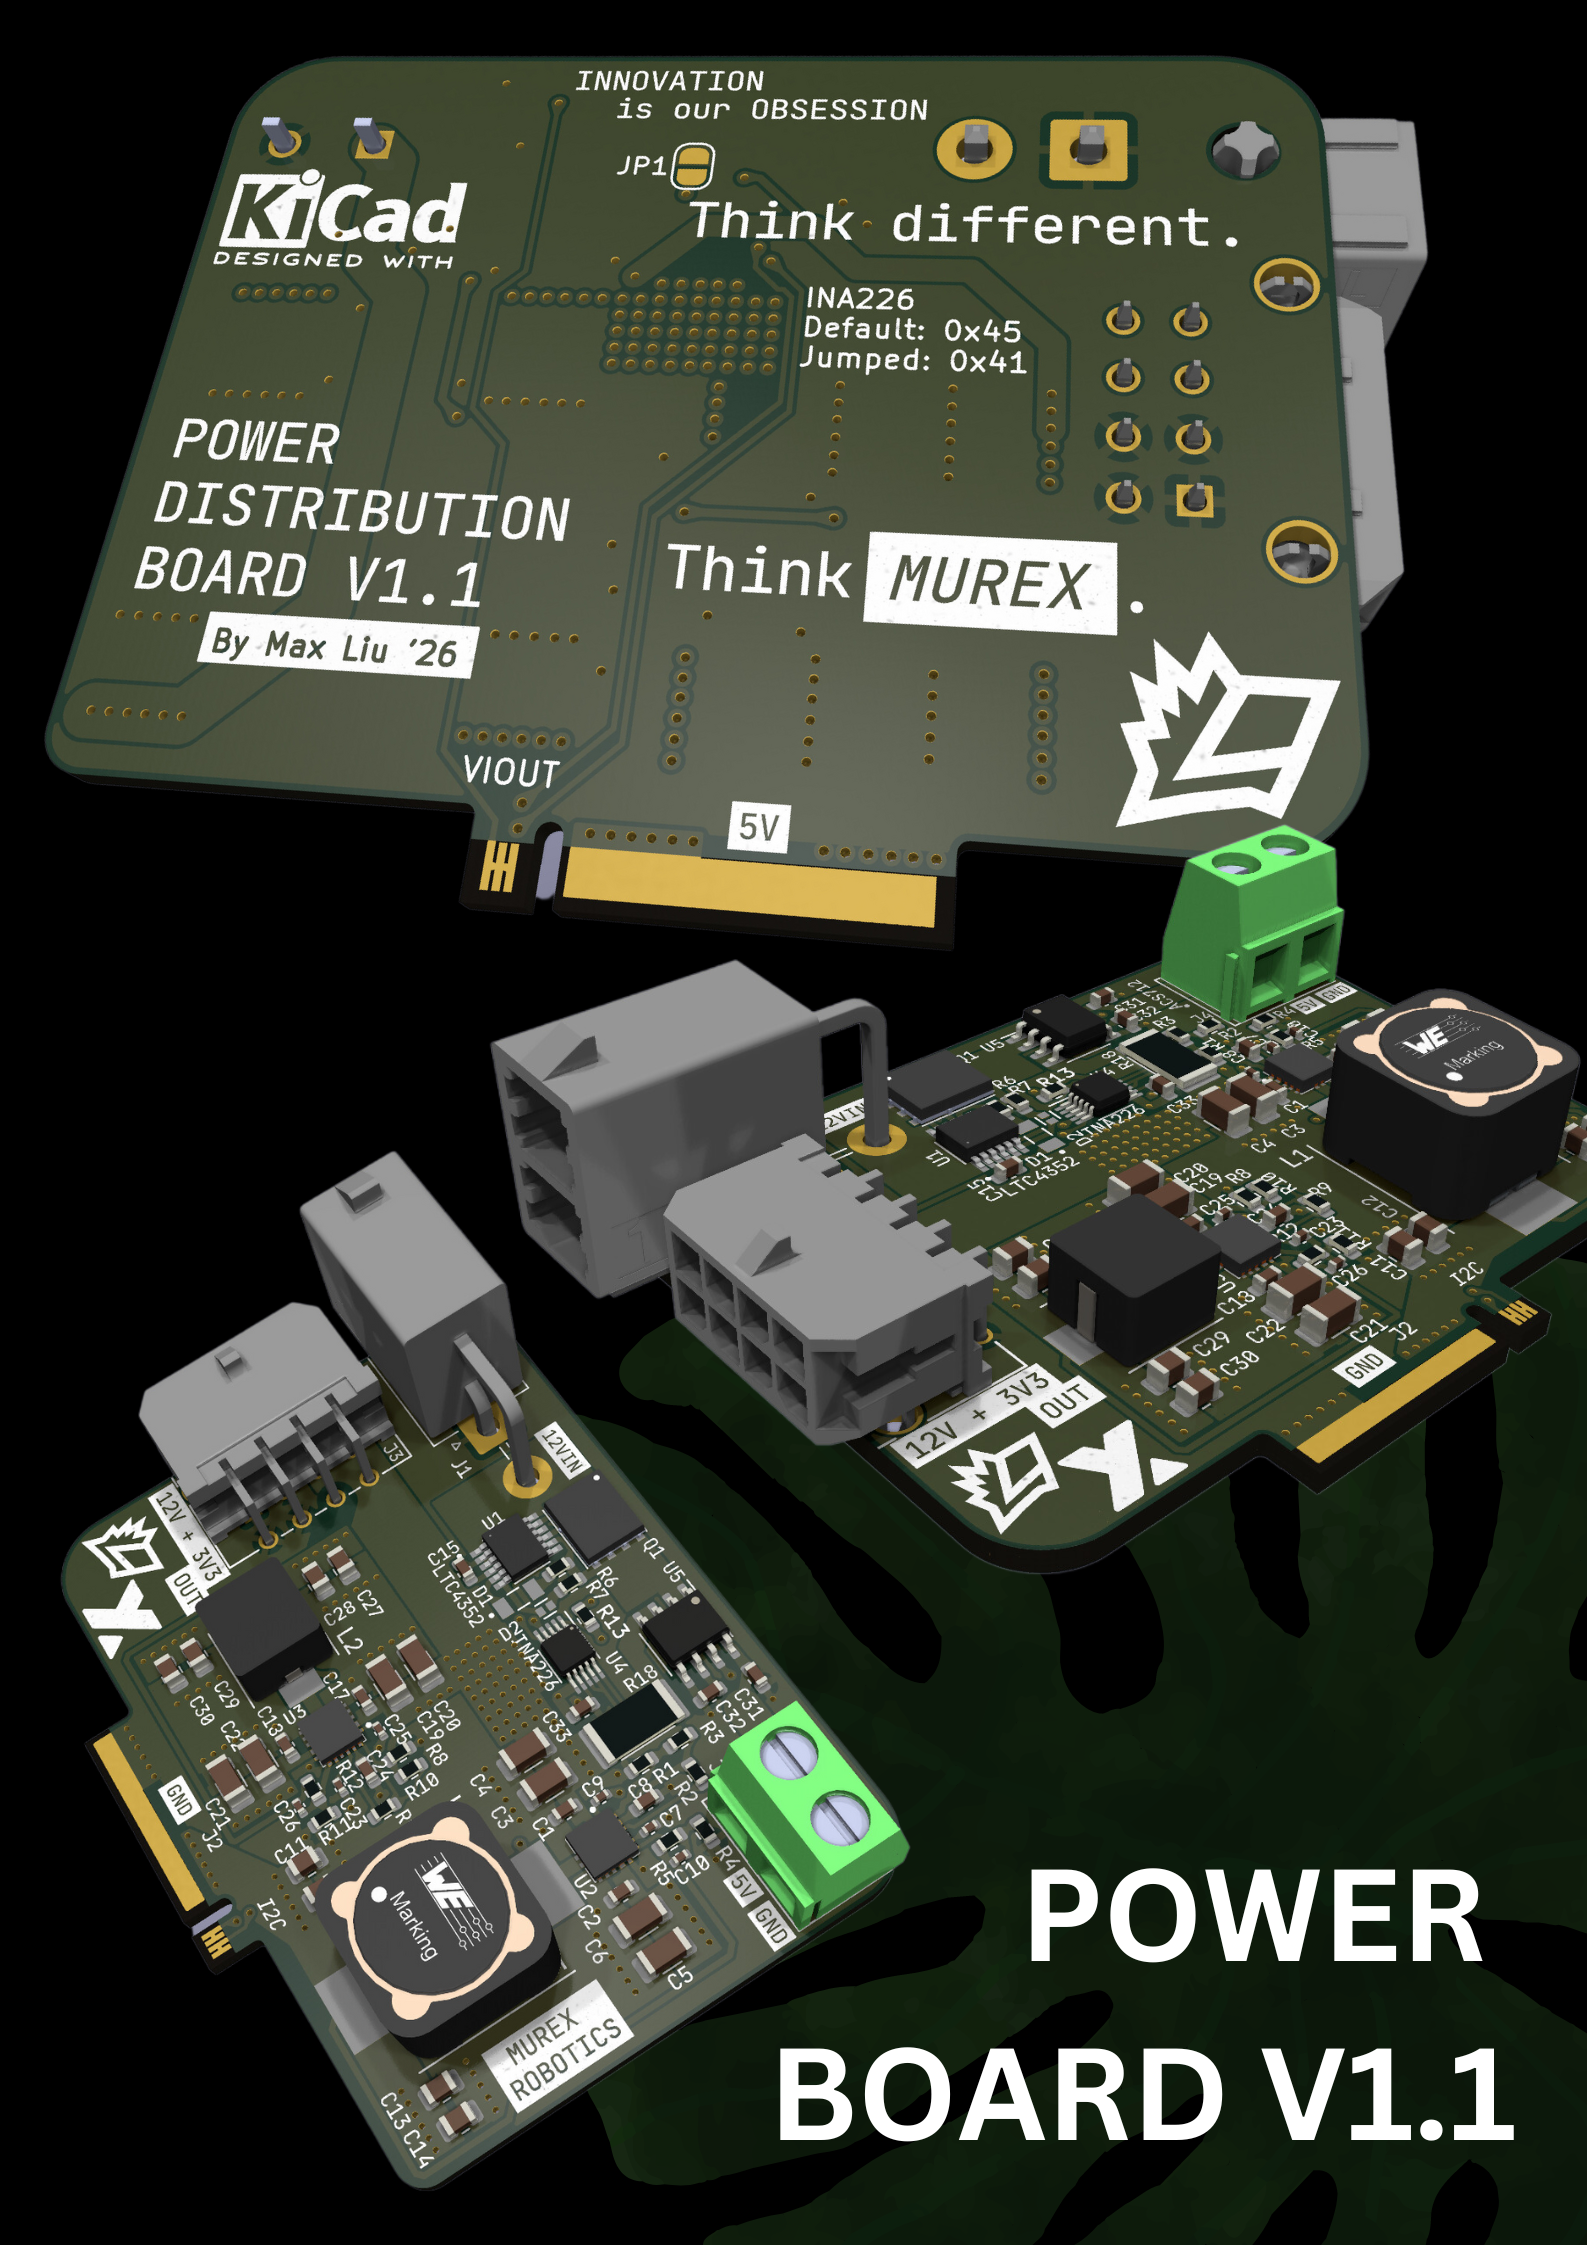
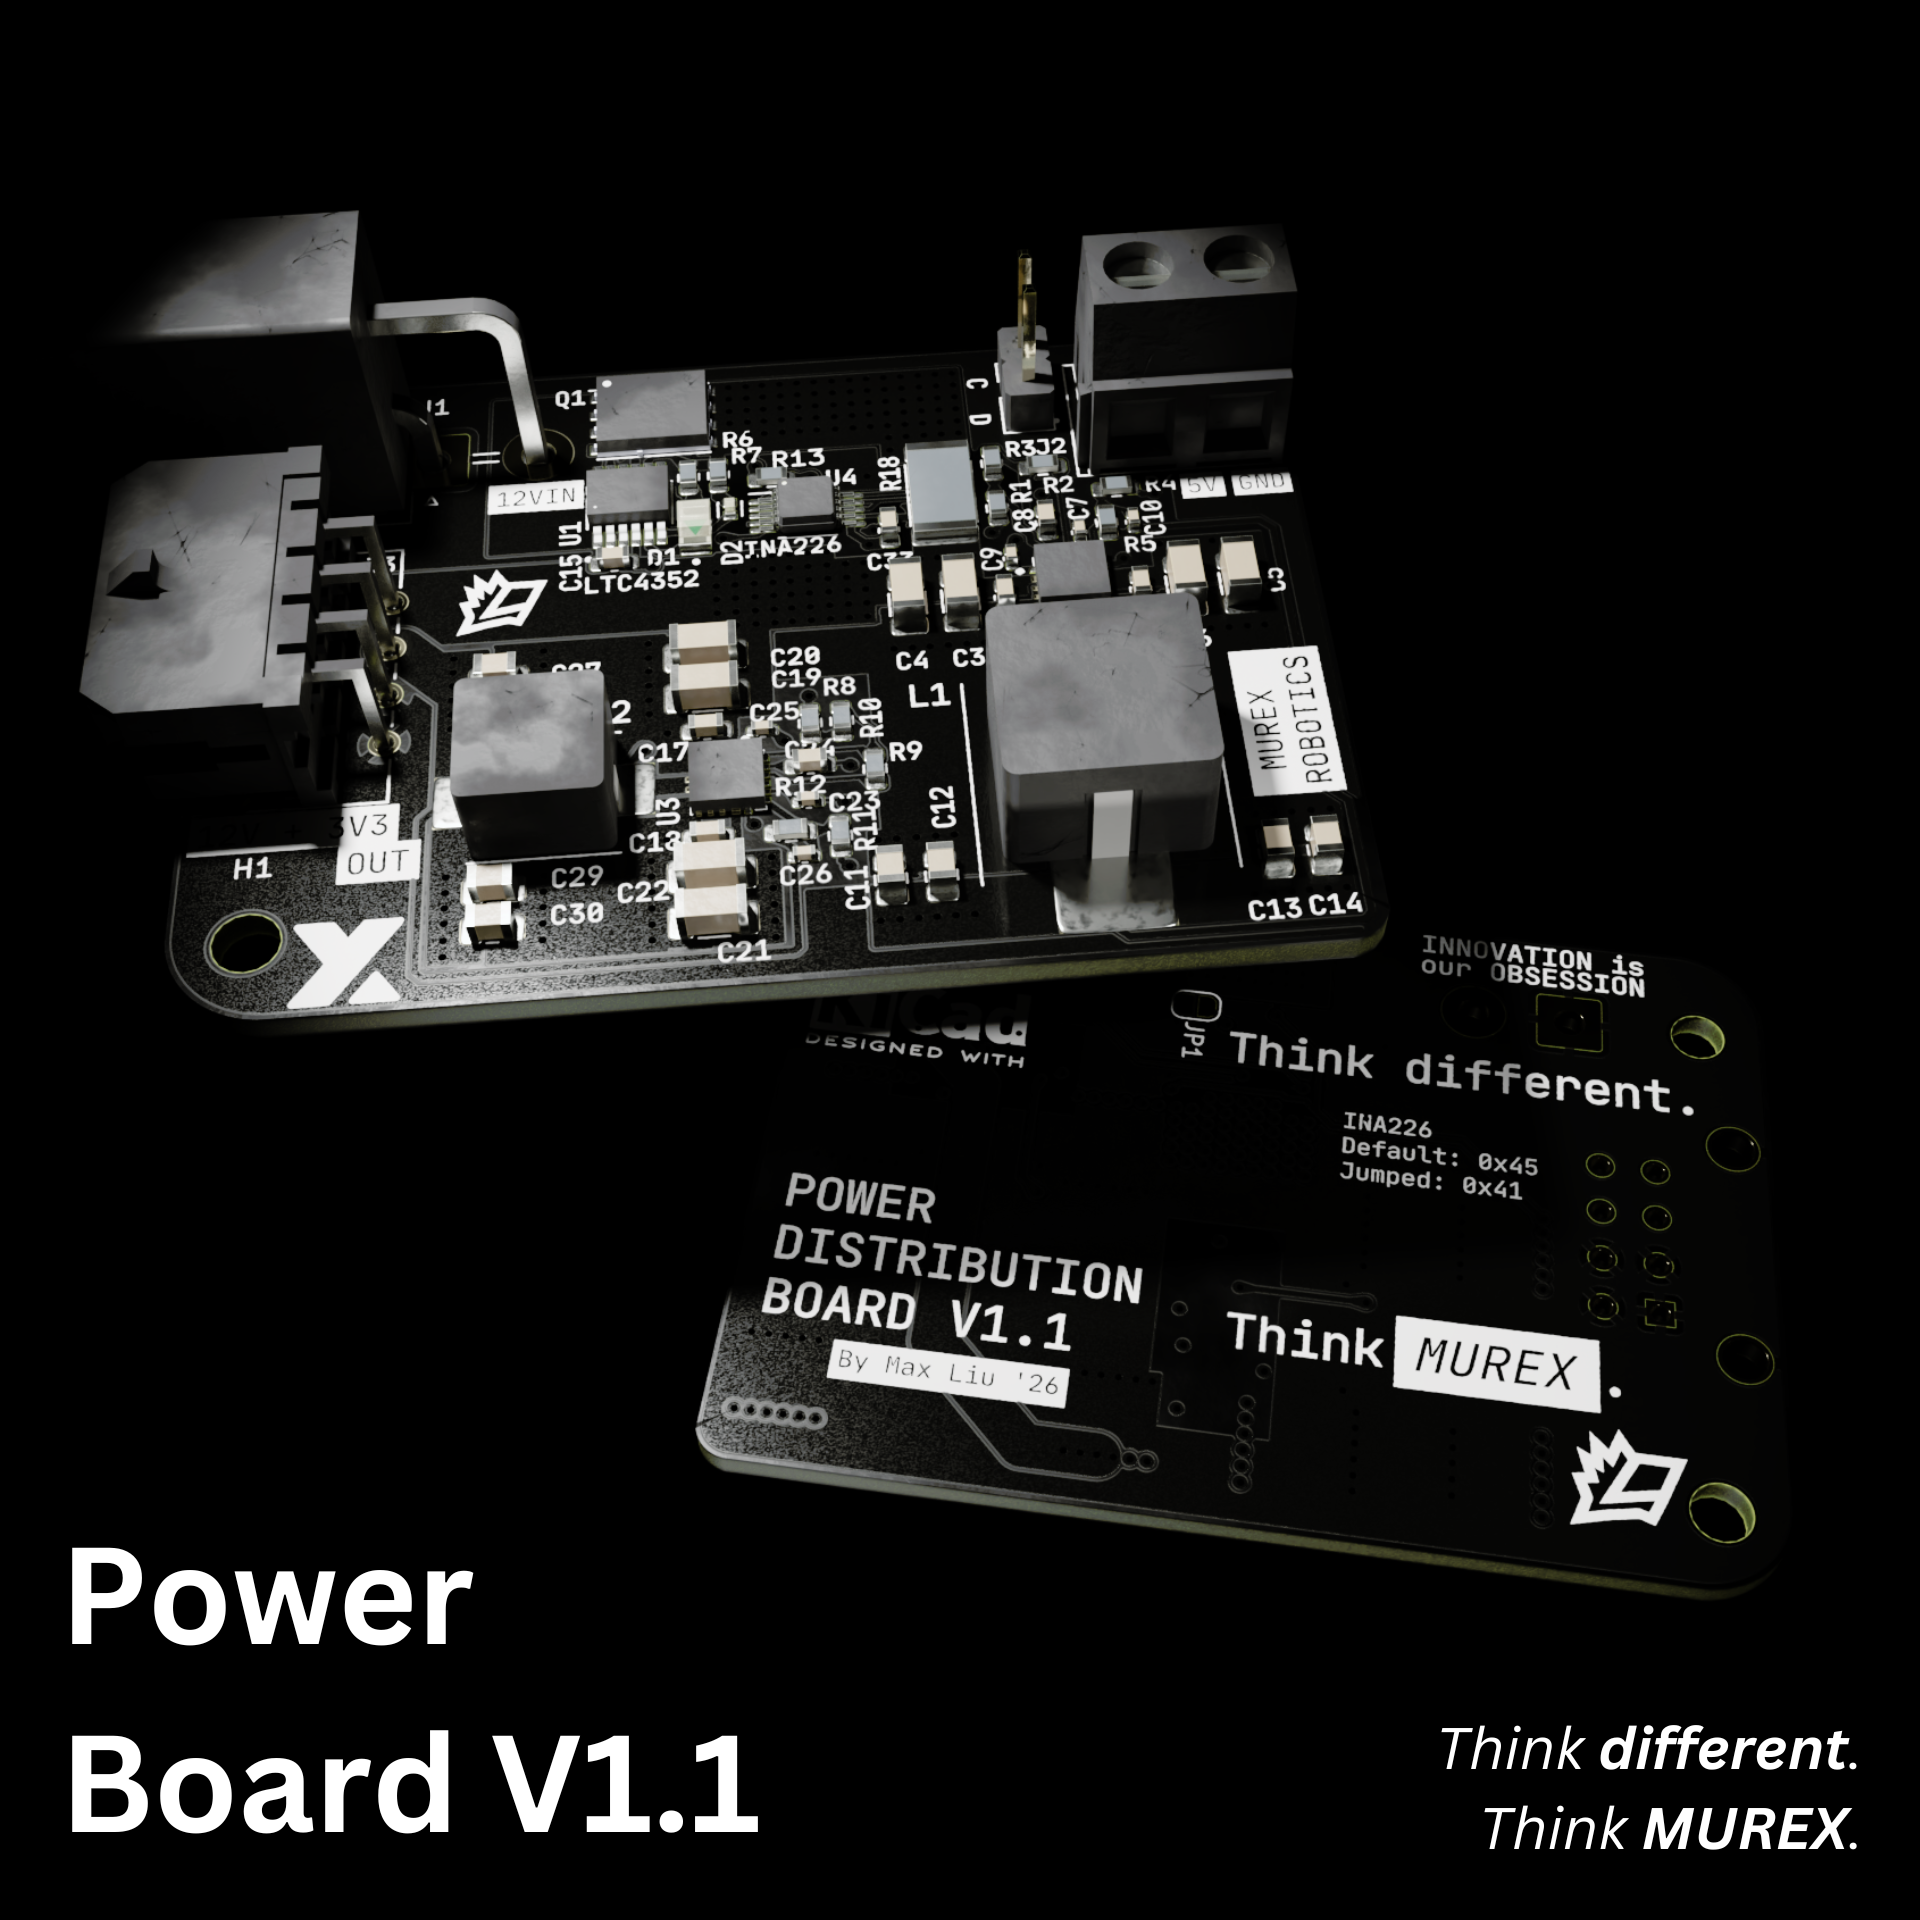
Feat[power]: updated power photo and status

diff --git a/src/elec/boards/power.md b/src/elec/boards/power.md
@@ -3,9 +3,8 @@
 ## Outline
 
 ![Raytraced Render](../../img/power_board_v1.1_release.png)
-*above images do not include recent `V1.1` changes
 
-The MUREX Power Board is the world's smallest dual-output buck converter, reducing an input voltage of 12V to 5V and 3V3 respectively. An integrated current sensor and circuit protection combined with microscopic physical dimensions measuring 40mm x 56mm (1.6″ x 2.2″) renders the power board an elite feature of MUREX electronics.
+The MUREX Power Board is among the world's smallest dual-output high power buck converters, reducing an input voltage of 12V to 5V and 3V3 respectively. An integrated current sensor and circuit protection combined with microscopic physical dimensions measuring 40mm x 56mm (1.6″ x 2.2″) renders the power board an elite feature of MUREX electronics.
 
 ## Detailed Description
 
@@ -15,7 +14,7 @@ The board formerly featured an M.2 card edge (Key A) that would provide 5V and I
 
 ## Current Status
 
-- `V1.1` Complete, sent to fabricator for manufactoring
+- `V1.1` Complete, partially tested
   - `V1.2` Revisions in progress
 
 ## Integrated Sensors and ICs
@@ -35,7 +34,7 @@ The board formerly featured an M.2 card edge (Key A) that would provide 5V and I
   - Shunt-resistor based
   - Voltage sensing from 0V-36V
   - Reports current, voltage, and power
-  - Jumper allows backup I2C address
+  - Jumper enables backup I2C address
 - [ACS712 (retired in V1.1)](https://www.allegromicro.com/en/products/sense/current-sensor-ics/zero-to-fifty-amp-integrated-conductor-sensor-ics/acs712) Current Sensor IC
   - Hall-effect based
   - Selected part optimized for ±30A measurements
@@ -49,7 +48,7 @@ The board formerly featured an M.2 card edge (Key A) that would provide 5V and I
 
 - [ ] Add microfit connector to Carrier Board
 - [ ] Improve mounting mechanism
-- [ ] `V1.1` testing
+- [ ] INA226 testing
 
 ### Changelog
 
